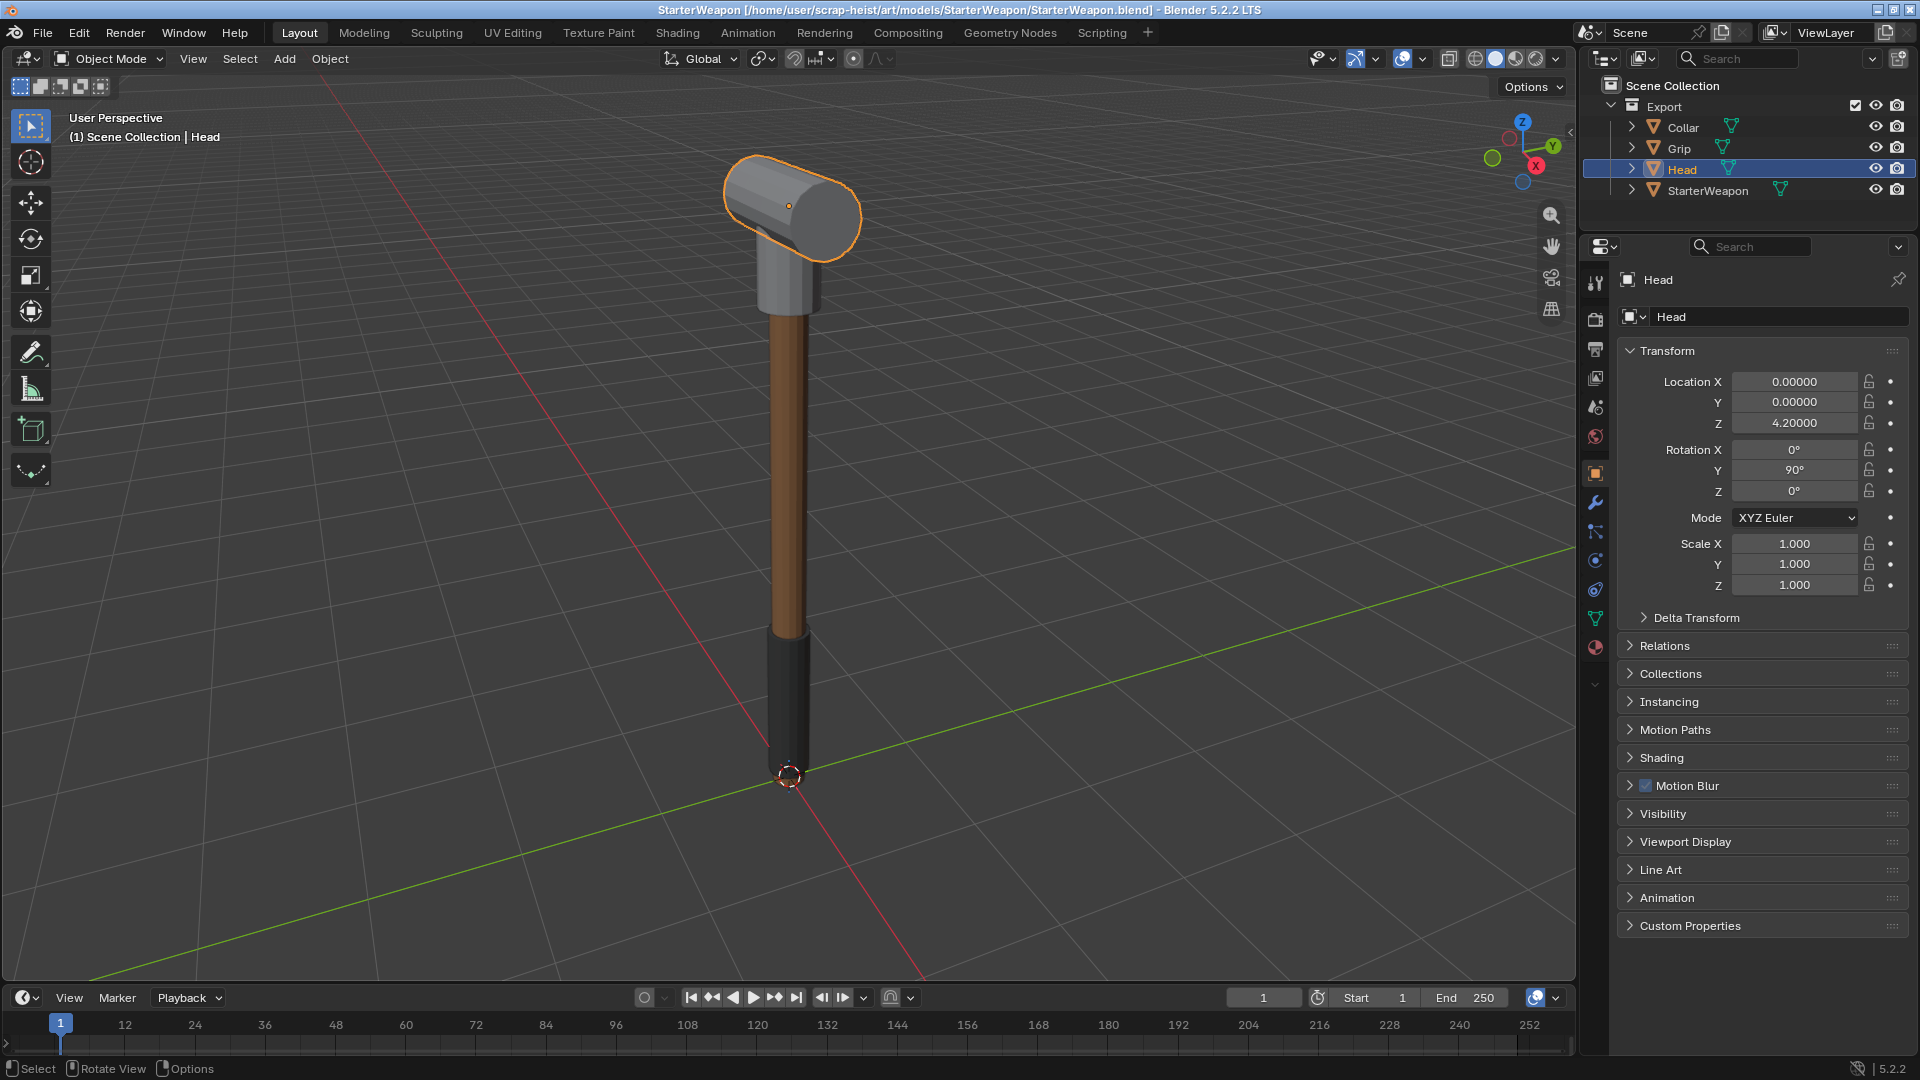
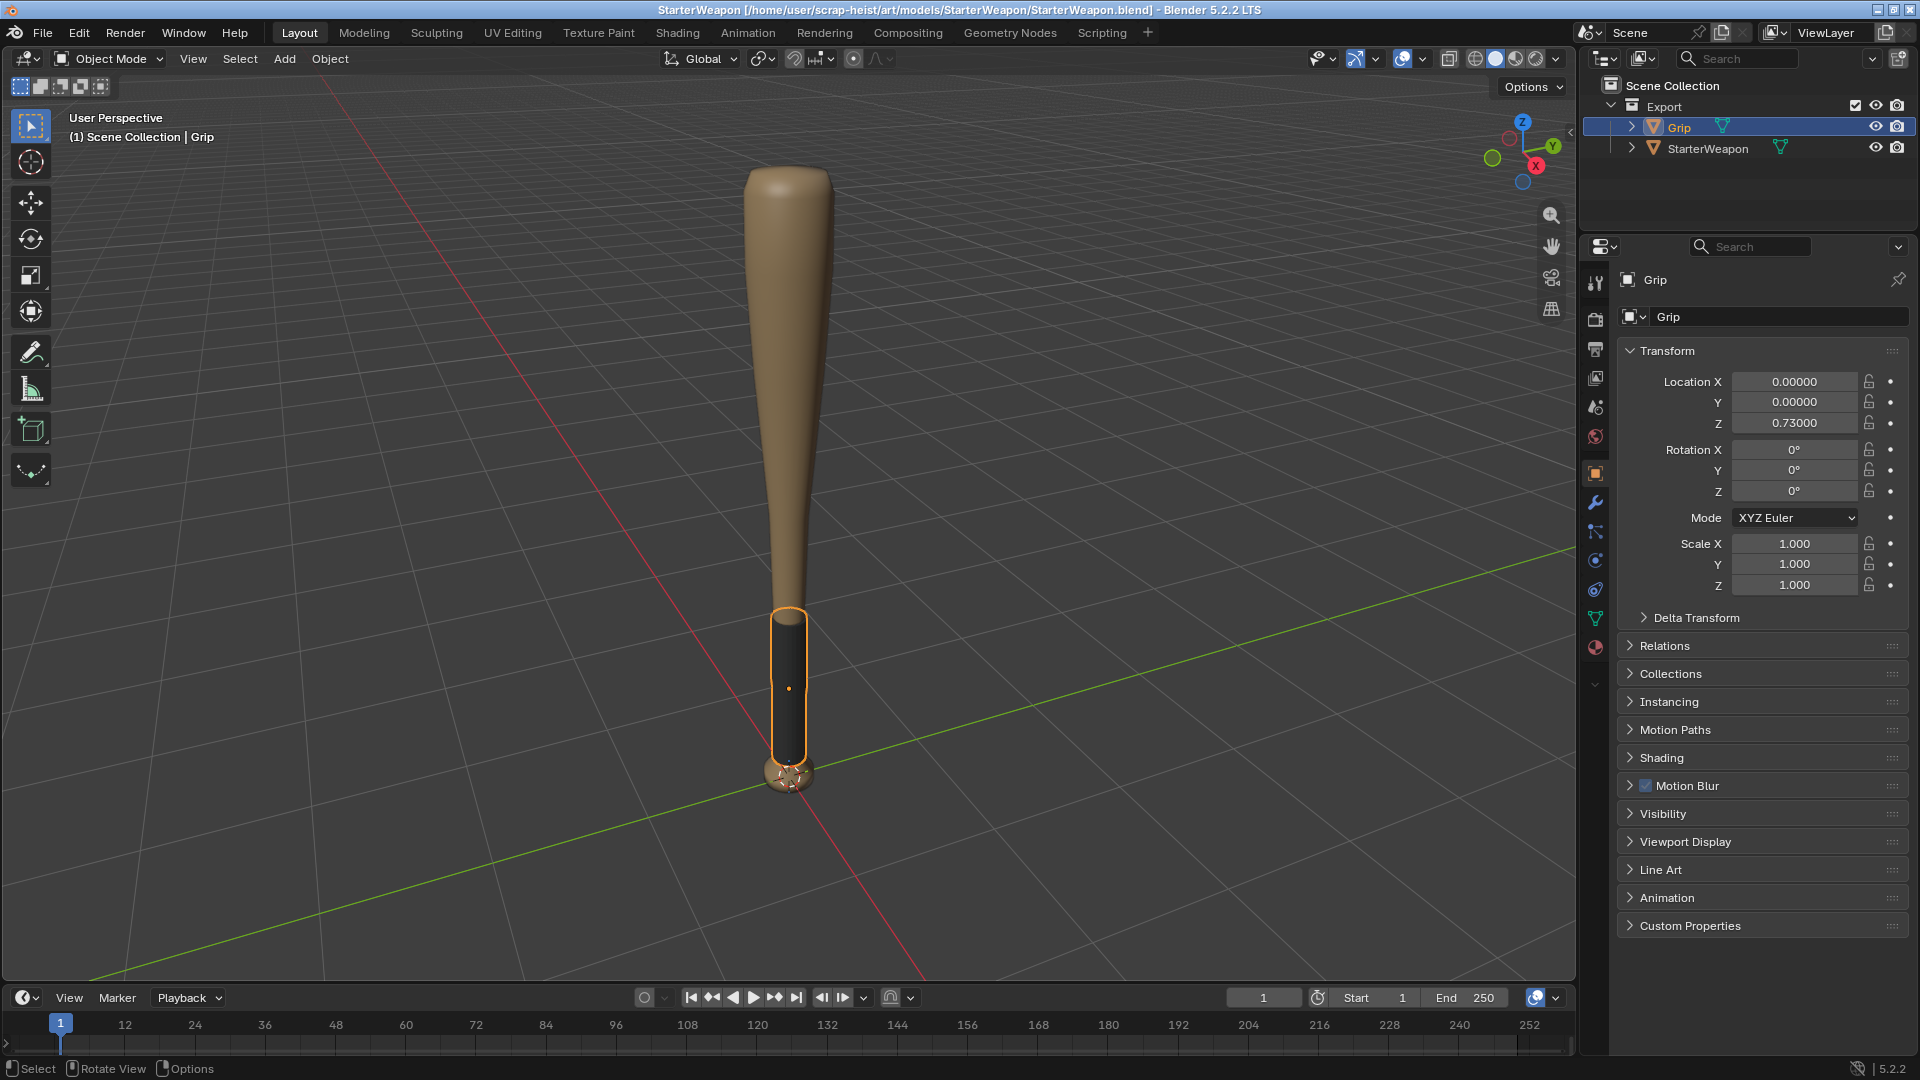
phase 1: StarterWeapon - baseball bat with tape grip

Changed region(s): [[0.375, 0.1222, 0.4688, 0.6111], [0.8125, 0.0917, 1.0, 0.1833], [0.375, 0.7028, 0.4375, 0.7333]]

diff --git a/art/models/StarterWeapon/build.py b/art/models/StarterWeapon/build.py
@@ -1,32 +1,63 @@
+import math
+
+import bmesh
 import bpy
 import scrapkit
 
-# Starter weapon: a scrap pipe club, built along +Z with the grip end at the
+# Starter weapon: a wooden baseball bat, built along +Z with the knob at the
 # origin so the tool's grip sits at the handle.
-LENGTH = 4.0
-RADIUS = 0.12
-GRIP_LENGTH = 1.2
+SEGMENTS = 24
+GRIP_LENGTH = 1.1
+
+# Bat profile as (radius, height) pairs from the knob up to the barrel cap.
+PROFILE = [
+	(0.0, 0.0),
+	(0.17, 0.0),
+	(0.17, 0.08),
+	(0.1, 0.16),
+	(0.1, 1.3),
+	(0.12, 2.0),
+	(0.2, 2.9),
+	(0.24, 3.5),
+	(0.24, 3.9),
+	(0.2, 4.0),
+	(0.0, 4.02),
+]
+
+
+def lathe(name: str, profile: list[tuple[float, float]]) -> bpy.types.Object:
+	mesh = bpy.data.meshes.new(name)
+	bm = bmesh.new()
+	rings = []
+	for radius, height in profile:
+		ring = []
+		for i in range(SEGMENTS):
+			angle = 2 * math.pi * i / SEGMENTS
+			ring.append(bm.verts.new((math.cos(angle) * radius, math.sin(angle) * radius, height)))
+		rings.append(ring)
+	for low, high in zip(rings, rings[1:]):
+		for i in range(SEGMENTS):
+			j = (i + 1) % SEGMENTS
+			bm.faces.new((low[i], low[j], high[j], high[i]))
+	# The first and last rings have zero radius, so merge them into poles.
+	bmesh.ops.remove_doubles(bm, verts=bm.verts, dist=1e-5)
+	bmesh.ops.recalc_face_normals(bm, faces=bm.faces)
+	bm.to_mesh(mesh)
+	bm.free()
+	for polygon in mesh.polygons:
+		polygon.use_smooth = True
+	return bpy.data.objects.new(name, mesh)
+
 
 collection = scrapkit.new_scene()
-rust = scrapkit.material("Rust", (0.45, 0.22, 0.1), metallic=0.6, roughness=0.8)
+wood = scrapkit.material("Wood", (0.62, 0.42, 0.22), roughness=0.55)
 tape = scrapkit.material("Tape", (0.08, 0.08, 0.08), roughness=0.9)
-steel = scrapkit.material("Steel", (0.5, 0.5, 0.52), metallic=0.9, roughness=0.45)
 
-bpy.ops.mesh.primitive_cylinder_add(vertices=16, radius=RADIUS, depth=LENGTH, location=(0, 0, LENGTH / 2))
-pipe = scrapkit.link(bpy.context.object, collection, rust)
-pipe.name = "StarterWeapon"
+scrapkit.link(lathe("StarterWeapon", PROFILE), collection, wood)
 
-# Grip: black tape wrapped around the bottom of the pipe.
-bpy.ops.mesh.primitive_cylinder_add(vertices=16, radius=RADIUS * 1.25, depth=GRIP_LENGTH, location=(0, 0, GRIP_LENGTH / 2 + 0.1))
+# Grip: black tape wrapped around the handle above the knob.
+bpy.ops.mesh.primitive_cylinder_add(vertices=SEGMENTS, radius=0.115, depth=GRIP_LENGTH, location=(0, 0, 0.18 + GRIP_LENGTH / 2))
 grip = scrapkit.link(bpy.context.object, collection, tape)
 grip.name = "Grip"
-
-# Head: a T-joint fitting screwed onto the top of the pipe.
-bpy.ops.mesh.primitive_cylinder_add(vertices=16, radius=RADIUS * 1.6, depth=0.5, location=(0, 0, LENGTH - 0.15))
-collar = scrapkit.link(bpy.context.object, collection, steel)
-collar.name = "Collar"
-bpy.ops.mesh.primitive_cylinder_add(vertices=16, radius=RADIUS * 1.8, depth=1.0, location=(0, 0, LENGTH + 0.2), rotation=(0, 1.5708, 0))
-head = scrapkit.link(bpy.context.object, collection, steel)
-head.name = "Head"
 
 scrapkit.finish(collection)
